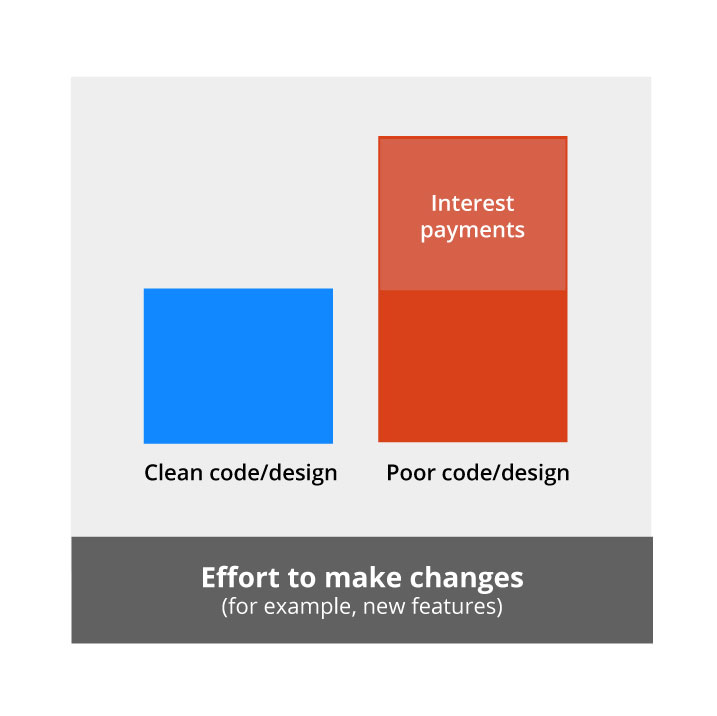
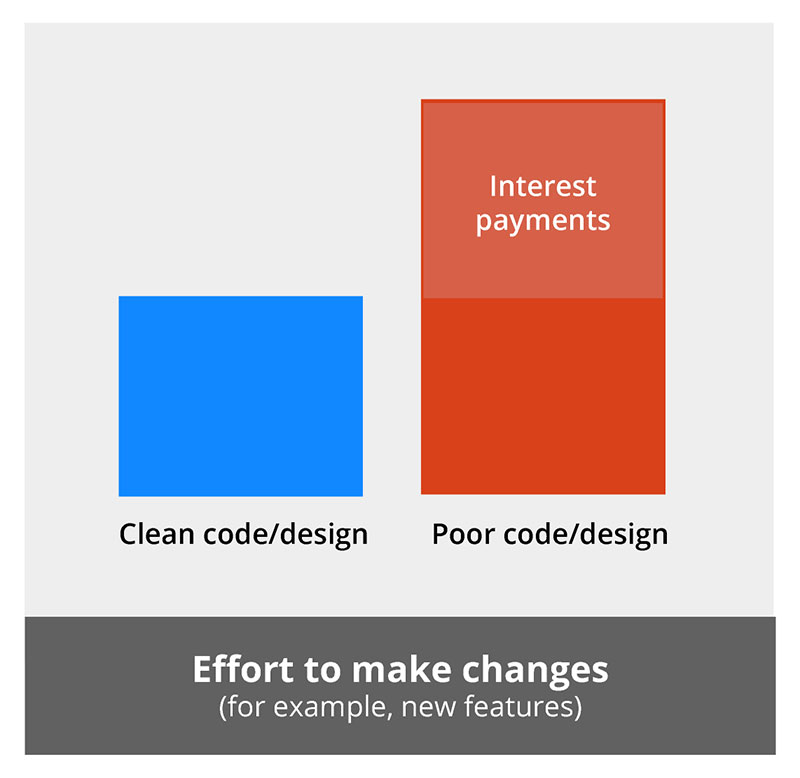
update images

Changed region(s): [[0.0307, 0.7374, 0.9819, 0.9832], [0.5216, 0.1229, 0.8591, 0.7067], [0.1227, 0.3687, 0.4909, 0.7067]]

diff --git a/_posts/2015-09-04-what-is-technical-debt.md b/_posts/2015-09-04-what-is-technical-debt.md
@@ -24,7 +24,9 @@ finish our incomplete work represents the principal portion of the debt.
 And the extra time it takes to work with our unwieldy code or design,
 until it’s fixed, represents the interest portion.
 
-![A bar graph showing how poor design can increase the cost of making changes or adding new features](/assets/blog/technical-debt/graphic-1.jpg)
+<div style="text-align:center">
+<img src="/assets/blog/technical-debt/graphic-1.jpg" alt="A bar graph showing how poor design can increase the cost of making changes or adding new features" width="400px">
+</div>
 
 Like financial debt, not all technical debt is bad debt. For example,
 taking out a mortgage on a home that you pay back within 15 years and
@@ -77,7 +79,9 @@ within a software product over time:
 
 -   The predictability of results decreases, making management highly distrustful. (Producing accurate estimates for software with a high amount of debt is nearly impossible.)
 
-![A graph showing how the cost of change increases over time when you have technical debt, and that hurts your ability to meet user needs.](/assets/blog/technical-debt/graphic-3.jpg)
+<div style="text-align:center">
+<img src="/assets/blog/technical-debt/graphic-3.jpg" alt="A graph showing how the cost of change increases over time when you have technical debt, and that hurts your ability to meet user needs." width="400px">
+</div>
 
 *Source: [Jim
 Highsmith](http://jimhighsmith.com/the-financial-implications-of-technical-debt/)*
